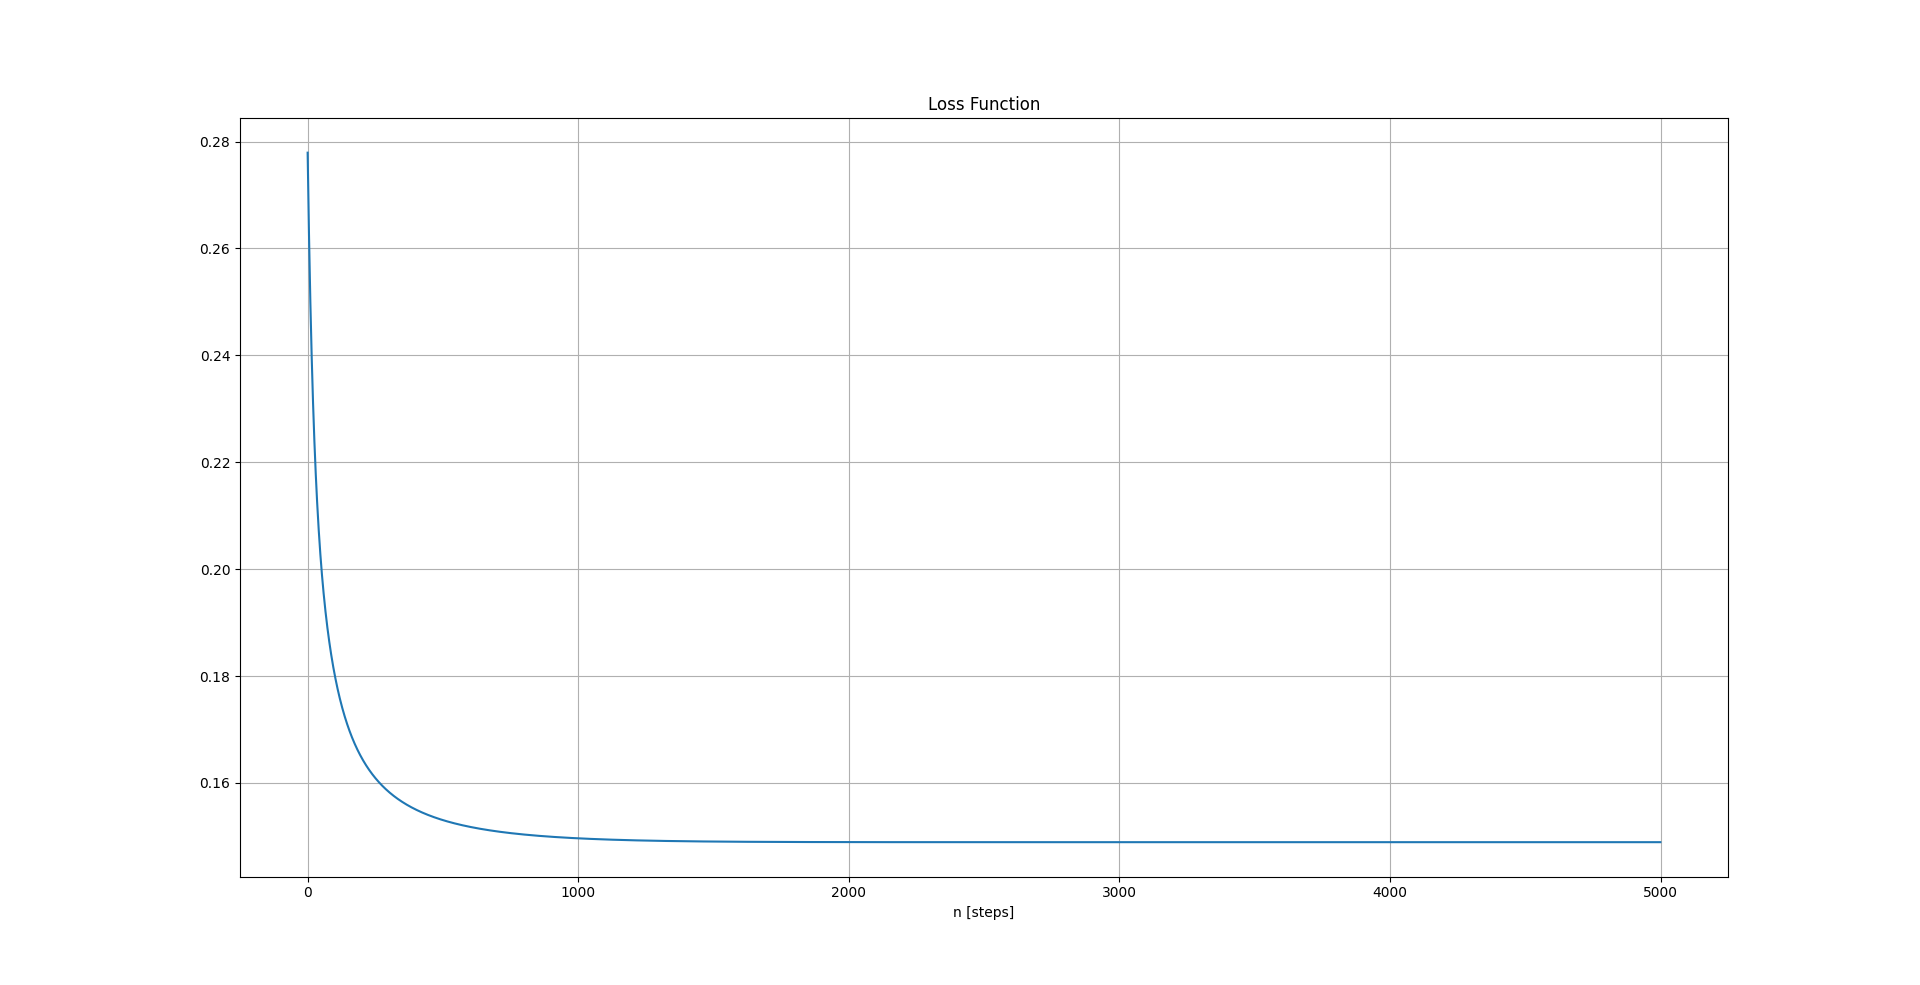
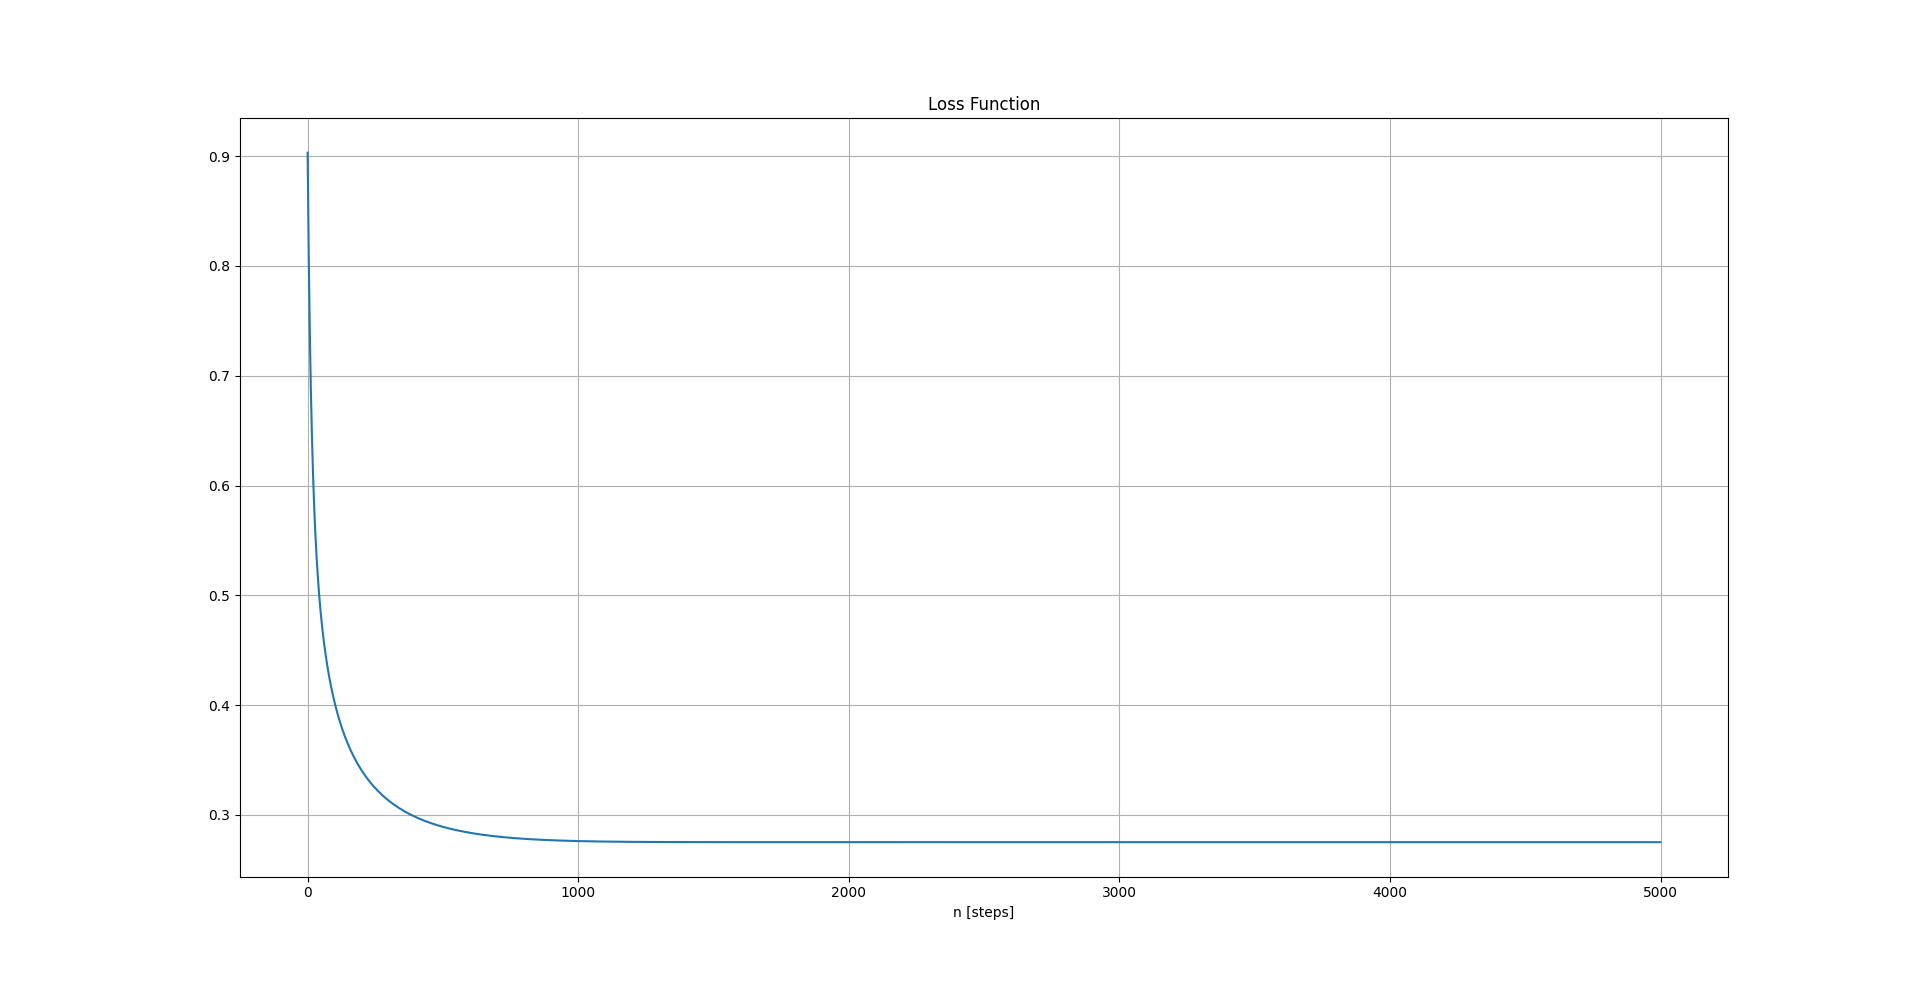
Updated images

diff --git a/README.md b/README.md
@@ -32,7 +32,13 @@ Mass = 5 kg
 ### Kalman Gain
 Mass = 20 kg
 ![Gain](img/gain_1.png)
+![Gain](img/msegain_1.png)
+![Gain](img/gain2_1.png)
+![Gain](img/msegain2_1.png)
 Mass = 5 kg
-![Error](img/gain_2.png)
+![Gain](img/gain_2.png)
+![Gain](img/msegain_2.png)
+![Gain](img/gain2_2.png)
+![Gain](img/msegain2_2.png)
 
 
